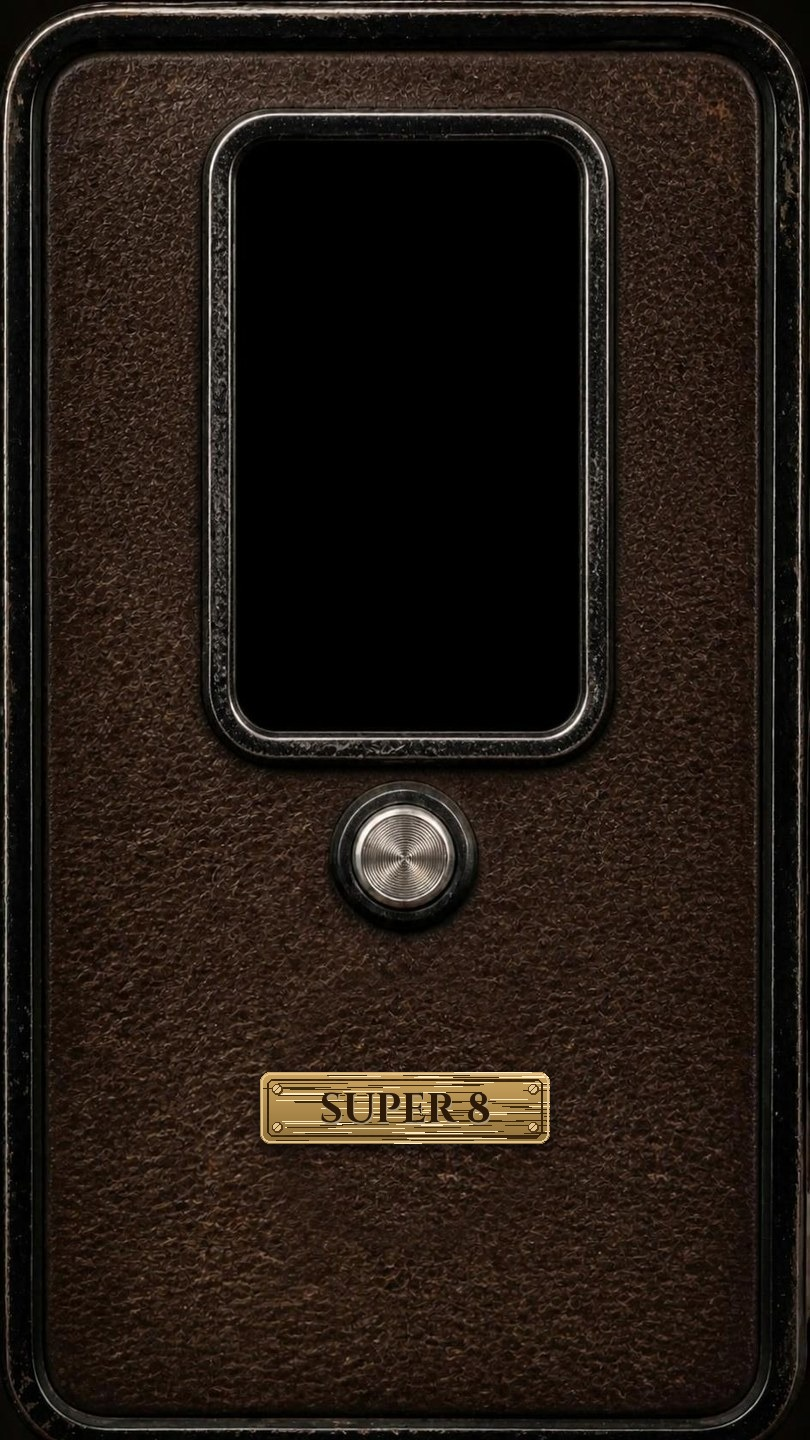
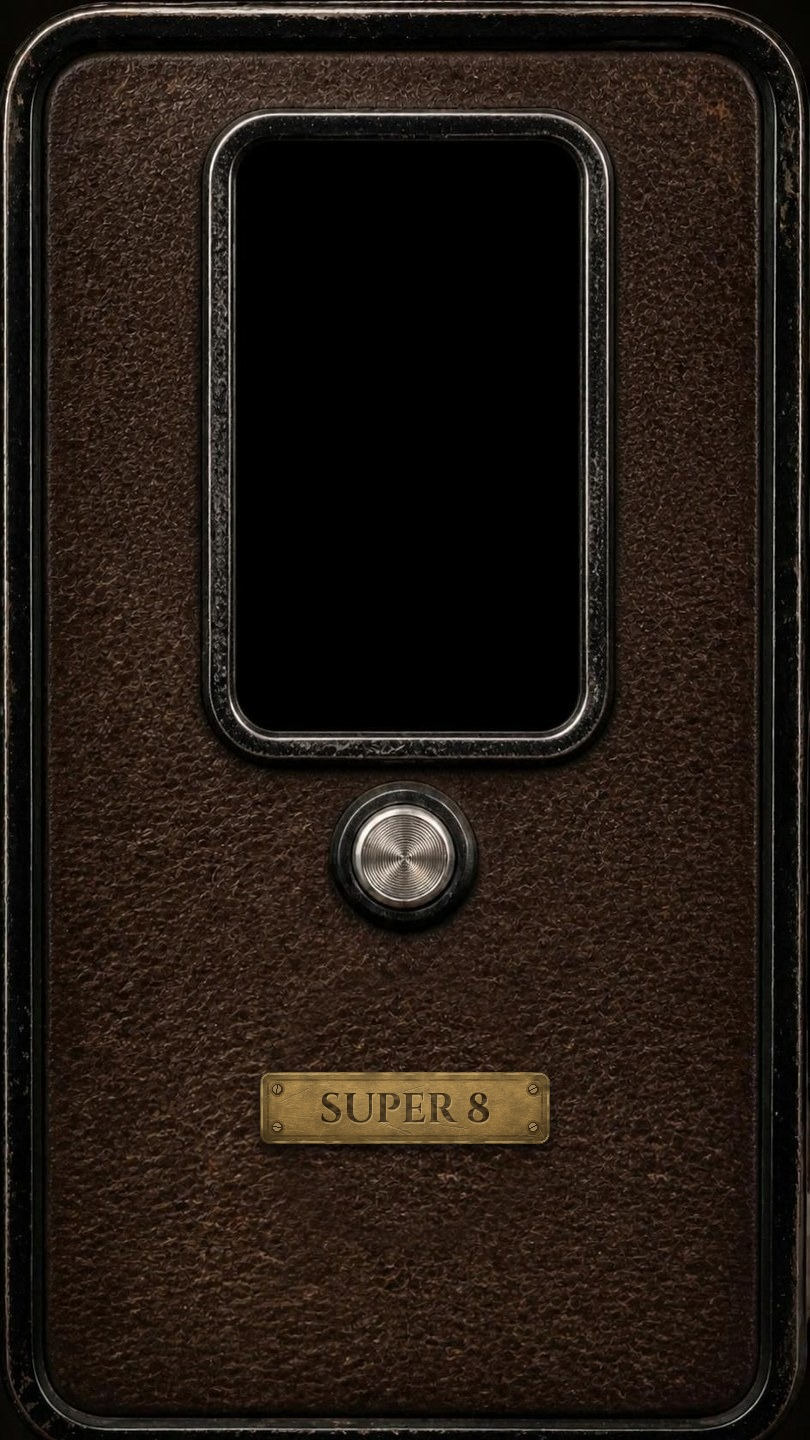
Super 8: plaquinha de latão envelhecida (gasta, arranhada, escurecida nos cantos), nas duas turmas
Claude-Session: https://claude.ai/code/session_01XrBii1UREp8g8yMMuyTCK4

Changed region(s): [[0.3086, 0.7188, 0.679, 0.8125]]

diff --git a/india-turma2/app/sw.js b/india-turma2/app/sw.js
@@ -1,10 +1,10 @@
-// marca: 18094c0fc6
+// marca: fb69645fdf
 // Guarda o app inteiro no celular para abrir mesmo sem sinal (templo, estrada, wi-fi fraco do hotel).
 const CACHE = "caravana-v6", EXTRA = "caravana-ext", MAPA = "caravana-mapa", MARCAS = "caravana-marcas";
 // lista de arquivos gerada pelo tools/gerar-site.py
 const ARQUIVOS = /*ARQUIVOS*/["index.html", "shim.js", "config.js", "manifest.webmanifest", "dados/geo.json", "dados/saberes/dharma.json", "dados/saberes/ganesha.json", "dados/saberes/kali.json", "dados/saberes/krishna.json", "dados/saberes/lakshmi.json", "dados/saberes/sarasvati.json", "dados/travessia.json", "deuses/brahma.webp", "deuses/durga.webp", "deuses/ganesha.webp", "deuses/ganga.webp", "deuses/hanuman.webp", "deuses/kali.webp", "deuses/krishna.webp", "deuses/lakshmi.webp", "deuses/parvati.webp", "deuses/saraswati.webp", "deuses/shiva.webp", "deuses/surya.webp", "deuses/vishnu.webp", "img/abertura-agra.webp", "img/abertura-delhi.webp", "img/abertura-embarque.webp", "img/abertura-jaipur.webp", "img/abertura-rishikesh.webp", "img/abertura-varanasi.webp", "img/bilhete-og.jpg", "img/bilhete-textura.jpg", "img/cameras/botao-latao.webp", "img/cameras/campo-corpo.jpg", "img/cameras/campo.png", "img/cameras/carteira-foto.jpg", "img/cameras/carteira.webp", "img/cameras/celular-estante.png", "img/cameras/celular.png", "img/cameras/couro-caramelo.webp", "img/cameras/couro-corpo.jpg", "img/cameras/couro-delhi.webp", "img/cameras/couro.png", "img/cameras/descartavel-corpo.jpg", "img/cameras/descartavel-estante.png", "img/cameras/descartavel.png", "img/cameras/estante.jpg", "img/cameras/etiqueta1.png", "img/cameras/etiqueta2.png", "img/cameras/etiqueta3.png", "img/cameras/instantanea-corpo.jpg", "img/cameras/instantanea-estante.png", "img/cameras/instantanea.png", "img/cameras/mala-cheia.jpg", "img/cameras/mala-oito.webp", "img/cameras/mala-papel.webp", "img/cameras/mala.jpg", "img/cameras/maleta-foto.jpg", "img/cameras/quatro-corpo.jpg", "img/cameras/quatro-estante.png", "img/cameras/quatro.png", "img/cameras/rajastao-corpo.jpg", "img/cameras/rajastao-estante.png", "img/cameras/rajastao.png", "img/cameras/super8-corpo.jpg", "img/cameras/super8-estante.png", "img/cameras/super8.png", "img/caravana-marrom.png", "img/cristal.jpg", "img/emblema.jpg", "img/fundo.webp", "img/icone-t2-180.png", "img/icone-t2-192.png", "img/icone-t2-512.png", "img/lacre-escuro.webp", "img/lacre.webp", "img/letreiro.png", "img/lockup-claro.png", "img/logo.png", "img/mantra-ganesha.webp", "img/mantra-vasudeva.webp", "img/papiro.webp", "img/passaporte-capa.webp", "img/passaporte.webp", "img/pedra.webp", "img/planetas/budha.webp", "img/planetas/chandra.webp", "img/planetas/guru.webp", "img/planetas/ketu.webp", "img/planetas/mangala.webp", "img/planetas/rahu.webp", "img/planetas/shani.webp", "img/planetas/shukra.webp", "img/planetas/surya.webp", "img/simbolo-claro.png", "img/simbolo-dourado.png", "img/simbolo-marrom.png", "img/simbolo-musgo.png", "img/simbolo.png", "img/tenda.webp", "img/textura.jpg", "insignias/batismo.webp", "insignias/beatles-ashram.webp", "insignias/caverna.webp", "insignias/diwali.webp", "insignias/durga-kund.webp", "insignias/embarque.webp", "insignias/galta-ji.webp", "insignias/ganesha.webp", "insignias/ganga-aarti.webp", "insignias/govind-dev-ji.webp", "insignias/india.webp", "insignias/jaipur.webp", "insignias/kunjapuri.webp", "insignias/manikarnika.webp", "insignias/rishikesh.webp", "insignias/sankat-mochan.webp", "insignias/taj-mahal.webp", "insignias/travessia.webp", "insignias/varanasi.webp"]/*FIM*/;
 // a marca de cada arquivo: numa atualização o celular só baixa de novo o que mudou (economiza o chip no exterior)
-const MARCA = /*MARCAS*/{"shim.js": "f284701254", "config.js": "eda1da432c", "manifest.webmanifest": "980a5ca0f6", "dados/geo.json": "f261282848", "dados/saberes/dharma.json": "78a51cb407", "dados/saberes/ganesha.json": "9f55ad4be4", "dados/saberes/kali.json": "b86d7ac459", "dados/saberes/krishna.json": "aabd863896", "dados/saberes/lakshmi.json": "bc4299d791", "dados/saberes/sarasvati.json": "20ae87e44b", "dados/travessia.json": "d3cf586020", "deuses/brahma.webp": "19992fcb0b", "deuses/durga.webp": "8d31fb940a", "deuses/ganesha.webp": "17bade2b8f", "deuses/ganga.webp": "149e4dd452", "deuses/hanuman.webp": "060814231e", "deuses/kali.webp": "58775391b0", "deuses/krishna.webp": "6ae658d645", "deuses/lakshmi.webp": "8ae7cb1e38", "deuses/parvati.webp": "7deb4969b4", "deuses/saraswati.webp": "231d5dddb2", "deuses/shiva.webp": "fce88360c5", "deuses/surya.webp": "df567b134b", "deuses/vishnu.webp": "67851a3c0b", "img/abertura-agra.webp": "96c5035722", "img/abertura-delhi.webp": "5356c14bf4", "img/abertura-embarque.webp": "9e320b1e29", "img/abertura-jaipur.webp": "965ec260db", "img/abertura-rishikesh.webp": "ce4c1a96f6", "img/abertura-varanasi.webp": "018d81939a", "img/bilhete-og.jpg": "01526b34f3", "img/bilhete-textura.jpg": "27c6916490", "img/cameras/botao-latao.webp": "2666f49629", "img/cameras/campo-corpo.jpg": "63f1e7fa9b", "img/cameras/campo.png": "c18a7e8454", "img/cameras/carteira-foto.jpg": "a7fedf6036", "img/cameras/carteira.webp": "3b77bfd17e", "img/cameras/celular-estante.png": "da6451baf7", "img/cameras/celular.png": "b10bb112cb", "img/cameras/couro-caramelo.webp": "57fa500869", "img/cameras/couro-corpo.jpg": "bf49b75fa3", "img/cameras/couro-delhi.webp": "4a78ba9b77", "img/cameras/couro.png": "e4ff450f79", "img/cameras/descartavel-corpo.jpg": "ac07cb28f5", "img/cameras/descartavel-estante.png": "f1d69c668a", "img/cameras/descartavel.png": "876e87ab30", "img/cameras/estante.jpg": "0cb7b649a8", "img/cameras/etiqueta1.png": "4aeea10cc0", "img/cameras/etiqueta2.png": "67dc1501a5", "img/cameras/etiqueta3.png": "0ad50425a9", "img/cameras/instantanea-corpo.jpg": "856089fe2a", "img/cameras/instantanea-estante.png": "f9885341c1", "img/cameras/instantanea.png": "beb836f2bc", "img/cameras/mala-cheia.jpg": "3c2218ae98", "img/cameras/mala-oito.webp": "aef48e85db", "img/cameras/mala-papel.webp": "29fc8486ca", "img/cameras/mala.jpg": "f79a46d2d3", "img/cameras/maleta-foto.jpg": "a8fd724b58", "img/cameras/quatro-corpo.jpg": "6c6747f615", "img/cameras/quatro-estante.png": "b2082a40e1", "img/cameras/quatro.png": "bbe4f0f2a4", "img/cameras/rajastao-corpo.jpg": "2b36624ac6", "img/cameras/rajastao-estante.png": "76fe9802df", "img/cameras/rajastao.png": "b480e2d873", "img/cameras/super8-corpo.jpg": "f4cf0f1418", "img/cameras/super8-estante.png": "2a07cbf97a", "img/cameras/super8.png": "e12eb1f958", "img/caravana-marrom.png": "784b71c5db", "img/cristal.jpg": "4adff18968", "img/emblema.jpg": "a211a86451", "img/fundo.webp": "aa9c10bcae", "img/icone-t2-180.png": "7e372ea916", "img/icone-t2-192.png": "fec7aba660", "img/icone-t2-512.png": "afd91eea51", "img/lacre-escuro.webp": "d459f488fc", "img/lacre.webp": "635ae8e394", "img/letreiro.png": "6defdd3553", "img/lockup-claro.png": "8d663db03a", "img/logo.png": "7a72b39c60", "img/mantra-ganesha.webp": "a7daafb44d", "img/mantra-vasudeva.webp": "6827763e6f", "img/papiro.webp": "7e11ae5ce6", "img/passaporte-capa.webp": "3c3ed6db3a", "img/passaporte.webp": "c5a0d63fd3", "img/pedra.webp": "3440e853b6", "img/planetas/budha.webp": "4c0a1ac24f", "img/planetas/chandra.webp": "56de1fa225", "img/planetas/guru.webp": "579c3697e6", "img/planetas/ketu.webp": "a96da73a0a", "img/planetas/mangala.webp": "fd4333e899", "img/planetas/rahu.webp": "2d54c13192", "img/planetas/shani.webp": "b270872959", "img/planetas/shukra.webp": "22c1b384af", "img/planetas/surya.webp": "af1ab537fa", "img/simbolo-claro.png": "8fa2d5ebf1", "img/simbolo-dourado.png": "fefceb26fb", "img/simbolo-marrom.png": "54f22364f2", "img/simbolo-musgo.png": "263fb11257", "img/simbolo.png": "cf73e5581e", "img/tenda.webp": "306f2ba051", "img/textura.jpg": "2dd579ec54", "insignias/batismo.webp": "5372da595f", "insignias/beatles-ashram.webp": "753270b7d0", "insignias/caverna.webp": "804c730450", "insignias/diwali.webp": "56d57efb26", "insignias/durga-kund.webp": "54db1886b6", "insignias/embarque.webp": "8f3b0b6dfb", "insignias/galta-ji.webp": "8aed7ab707", "insignias/ganesha.webp": "b866c0bba1", "insignias/ganga-aarti.webp": "0f3405a8b0", "insignias/govind-dev-ji.webp": "2e6c1891c5", "insignias/india.webp": "0507deebf0", "insignias/jaipur.webp": "b5a70853d8", "insignias/kunjapuri.webp": "a887052d5c", "insignias/manikarnika.webp": "e7a872925e", "insignias/rishikesh.webp": "98d094103a", "insignias/sankat-mochan.webp": "38c74ad7d0", "insignias/taj-mahal.webp": "2d4bb63d47", "insignias/travessia.webp": "44e46c3480", "insignias/varanasi.webp": "fcd5b20cfc"}/*FIMM*/;
+const MARCA = /*MARCAS*/{"shim.js": "f284701254", "config.js": "eda1da432c", "manifest.webmanifest": "980a5ca0f6", "dados/geo.json": "f261282848", "dados/saberes/dharma.json": "78a51cb407", "dados/saberes/ganesha.json": "9f55ad4be4", "dados/saberes/kali.json": "b86d7ac459", "dados/saberes/krishna.json": "aabd863896", "dados/saberes/lakshmi.json": "bc4299d791", "dados/saberes/sarasvati.json": "20ae87e44b", "dados/travessia.json": "d3cf586020", "deuses/brahma.webp": "19992fcb0b", "deuses/durga.webp": "8d31fb940a", "deuses/ganesha.webp": "17bade2b8f", "deuses/ganga.webp": "149e4dd452", "deuses/hanuman.webp": "060814231e", "deuses/kali.webp": "58775391b0", "deuses/krishna.webp": "6ae658d645", "deuses/lakshmi.webp": "8ae7cb1e38", "deuses/parvati.webp": "7deb4969b4", "deuses/saraswati.webp": "231d5dddb2", "deuses/shiva.webp": "fce88360c5", "deuses/surya.webp": "df567b134b", "deuses/vishnu.webp": "67851a3c0b", "img/abertura-agra.webp": "96c5035722", "img/abertura-delhi.webp": "5356c14bf4", "img/abertura-embarque.webp": "9e320b1e29", "img/abertura-jaipur.webp": "965ec260db", "img/abertura-rishikesh.webp": "ce4c1a96f6", "img/abertura-varanasi.webp": "018d81939a", "img/bilhete-og.jpg": "01526b34f3", "img/bilhete-textura.jpg": "27c6916490", "img/cameras/botao-latao.webp": "2666f49629", "img/cameras/campo-corpo.jpg": "63f1e7fa9b", "img/cameras/campo.png": "c18a7e8454", "img/cameras/carteira-foto.jpg": "a7fedf6036", "img/cameras/carteira.webp": "3b77bfd17e", "img/cameras/celular-estante.png": "da6451baf7", "img/cameras/celular.png": "b10bb112cb", "img/cameras/couro-caramelo.webp": "57fa500869", "img/cameras/couro-corpo.jpg": "bf49b75fa3", "img/cameras/couro-delhi.webp": "4a78ba9b77", "img/cameras/couro.png": "e4ff450f79", "img/cameras/descartavel-corpo.jpg": "ac07cb28f5", "img/cameras/descartavel-estante.png": "f1d69c668a", "img/cameras/descartavel.png": "876e87ab30", "img/cameras/estante.jpg": "0cb7b649a8", "img/cameras/etiqueta1.png": "4aeea10cc0", "img/cameras/etiqueta2.png": "67dc1501a5", "img/cameras/etiqueta3.png": "0ad50425a9", "img/cameras/instantanea-corpo.jpg": "856089fe2a", "img/cameras/instantanea-estante.png": "f9885341c1", "img/cameras/instantanea.png": "beb836f2bc", "img/cameras/mala-cheia.jpg": "3c2218ae98", "img/cameras/mala-oito.webp": "aef48e85db", "img/cameras/mala-papel.webp": "29fc8486ca", "img/cameras/mala.jpg": "f79a46d2d3", "img/cameras/maleta-foto.jpg": "a8fd724b58", "img/cameras/quatro-corpo.jpg": "6c6747f615", "img/cameras/quatro-estante.png": "b2082a40e1", "img/cameras/quatro.png": "bbe4f0f2a4", "img/cameras/rajastao-corpo.jpg": "2b36624ac6", "img/cameras/rajastao-estante.png": "76fe9802df", "img/cameras/rajastao.png": "b480e2d873", "img/cameras/super8-corpo.jpg": "cabc2f39df", "img/cameras/super8-estante.png": "2a07cbf97a", "img/cameras/super8.png": "e12eb1f958", "img/caravana-marrom.png": "784b71c5db", "img/cristal.jpg": "4adff18968", "img/emblema.jpg": "a211a86451", "img/fundo.webp": "aa9c10bcae", "img/icone-t2-180.png": "7e372ea916", "img/icone-t2-192.png": "fec7aba660", "img/icone-t2-512.png": "afd91eea51", "img/lacre-escuro.webp": "d459f488fc", "img/lacre.webp": "635ae8e394", "img/letreiro.png": "6defdd3553", "img/lockup-claro.png": "8d663db03a", "img/logo.png": "7a72b39c60", "img/mantra-ganesha.webp": "a7daafb44d", "img/mantra-vasudeva.webp": "6827763e6f", "img/papiro.webp": "7e11ae5ce6", "img/passaporte-capa.webp": "3c3ed6db3a", "img/passaporte.webp": "c5a0d63fd3", "img/pedra.webp": "3440e853b6", "img/planetas/budha.webp": "4c0a1ac24f", "img/planetas/chandra.webp": "56de1fa225", "img/planetas/guru.webp": "579c3697e6", "img/planetas/ketu.webp": "a96da73a0a", "img/planetas/mangala.webp": "fd4333e899", "img/planetas/rahu.webp": "2d54c13192", "img/planetas/shani.webp": "b270872959", "img/planetas/shukra.webp": "22c1b384af", "img/planetas/surya.webp": "af1ab537fa", "img/simbolo-claro.png": "8fa2d5ebf1", "img/simbolo-dourado.png": "fefceb26fb", "img/simbolo-marrom.png": "54f22364f2", "img/simbolo-musgo.png": "263fb11257", "img/simbolo.png": "cf73e5581e", "img/tenda.webp": "306f2ba051", "img/textura.jpg": "2dd579ec54", "insignias/batismo.webp": "5372da595f", "insignias/beatles-ashram.webp": "753270b7d0", "insignias/caverna.webp": "804c730450", "insignias/diwali.webp": "56d57efb26", "insignias/durga-kund.webp": "54db1886b6", "insignias/embarque.webp": "8f3b0b6dfb", "insignias/galta-ji.webp": "8aed7ab707", "insignias/ganesha.webp": "b866c0bba1", "insignias/ganga-aarti.webp": "0f3405a8b0", "insignias/govind-dev-ji.webp": "2e6c1891c5", "insignias/india.webp": "0507deebf0", "insignias/jaipur.webp": "b5a70853d8", "insignias/kunjapuri.webp": "a887052d5c", "insignias/manikarnika.webp": "e7a872925e", "insignias/rishikesh.webp": "98d094103a", "insignias/sankat-mochan.webp": "38c74ad7d0", "insignias/taj-mahal.webp": "2d4bb63d47", "insignias/travessia.webp": "44e46c3480", "insignias/varanasi.webp": "fcd5b20cfc"}/*FIMM*/;
 const LISTA = new Set(ARQUIVOS.filter(a => a !== "index.html"));
 async function guardaUm(c, m, a, sempre) {
   const mk = MARCA[a];

diff --git a/app/sw.js b/app/sw.js
@@ -1,10 +1,10 @@
-// marca: 06f61bb1fc
+// marca: 19b8f44a52
 // Guarda o app inteiro no celular para abrir mesmo sem sinal (templo, estrada, wi-fi fraco do hotel).
 const CACHE = "caravana-v6", EXTRA = "caravana-ext", MAPA = "caravana-mapa", MARCAS = "caravana-marcas";
 // lista de arquivos gerada pelo tools/gerar-site.py
 const ARQUIVOS = /*ARQUIVOS*/["index.html", "shim.js", "config.js", "manifest.webmanifest", "dados/geo.json", "dados/saberes/dharma.json", "dados/saberes/ganesha.json", "dados/saberes/kali.json", "dados/saberes/krishna.json", "dados/saberes/lakshmi.json", "dados/saberes/sarasvati.json", "dados/travessia.json", "deuses/brahma.webp", "deuses/durga.webp", "deuses/ganesha.webp", "deuses/ganga.webp", "deuses/hanuman.webp", "deuses/kali.webp", "deuses/krishna.webp", "deuses/lakshmi.webp", "deuses/parvati.webp", "deuses/saraswati.webp", "deuses/shiva.webp", "deuses/surya.webp", "deuses/vishnu.webp", "img/abertura-agra.webp", "img/abertura-delhi.webp", "img/abertura-embarque.webp", "img/abertura-jaipur.webp", "img/abertura-rishikesh.webp", "img/abertura-varanasi.webp", "img/bilhete-og.jpg", "img/bilhete-textura.jpg", "img/cameras/botao-latao.webp", "img/cameras/campo-corpo.jpg", "img/cameras/campo.png", "img/cameras/carteira-foto.jpg", "img/cameras/carteira.webp", "img/cameras/celular-estante.png", "img/cameras/celular.png", "img/cameras/couro-caramelo.webp", "img/cameras/couro-corpo.jpg", "img/cameras/couro-delhi.webp", "img/cameras/couro.png", "img/cameras/descartavel-corpo.jpg", "img/cameras/descartavel-estante.png", "img/cameras/descartavel.png", "img/cameras/estante.jpg", "img/cameras/etiqueta1.png", "img/cameras/etiqueta2.png", "img/cameras/etiqueta3.png", "img/cameras/instantanea-corpo.jpg", "img/cameras/instantanea-estante.png", "img/cameras/instantanea.png", "img/cameras/mala-cheia.jpg", "img/cameras/mala-oito.webp", "img/cameras/mala-papel.webp", "img/cameras/mala.jpg", "img/cameras/maleta-foto.jpg", "img/cameras/quatro-corpo.jpg", "img/cameras/quatro-estante.png", "img/cameras/quatro.png", "img/cameras/rajastao-corpo.jpg", "img/cameras/rajastao-estante.png", "img/cameras/rajastao.png", "img/cameras/super8-corpo.jpg", "img/cameras/super8-estante.png", "img/cameras/super8.png", "img/caravana-marrom.png", "img/cristal.jpg", "img/emblema.jpg", "img/fundo.webp", "img/icone-180.png", "img/icone-192.png", "img/icone-512.png", "img/lacre-escuro.webp", "img/lacre.webp", "img/letreiro.png", "img/lockup-claro.png", "img/logo.png", "img/mantra-ganesha.webp", "img/mantra-vasudeva.webp", "img/papiro.webp", "img/passaporte-capa.webp", "img/passaporte.webp", "img/pedra.webp", "img/planetas/budha.webp", "img/planetas/chandra.webp", "img/planetas/guru.webp", "img/planetas/ketu.webp", "img/planetas/mangala.webp", "img/planetas/rahu.webp", "img/planetas/shani.webp", "img/planetas/shukra.webp", "img/planetas/surya.webp", "img/simbolo-claro.png", "img/simbolo-dourado.png", "img/simbolo-marrom.png", "img/simbolo.png", "img/tenda.webp", "img/textura.jpg", "insignias/batismo.webp", "insignias/beatles-ashram.webp", "insignias/caverna.webp", "insignias/diwali.webp", "insignias/durga-kund.webp", "insignias/embarque.webp", "insignias/galta-ji.webp", "insignias/ganesha.webp", "insignias/ganga-aarti.webp", "insignias/govind-dev-ji.webp", "insignias/india.webp", "insignias/jaipur.webp", "insignias/kunjapuri.webp", "insignias/manikarnika.webp", "insignias/rishikesh.webp", "insignias/sankat-mochan.webp", "insignias/taj-mahal.webp", "insignias/travessia.webp", "insignias/varanasi.webp"]/*FIM*/;
 // a marca de cada arquivo: numa atualização o celular só baixa de novo o que mudou (economiza o chip no exterior)
-const MARCA = /*MARCAS*/{"shim.js": "9ac90dcb64", "config.js": "431d3dc4e4", "manifest.webmanifest": "dcac99ae9c", "dados/geo.json": "f261282848", "dados/saberes/dharma.json": "78a51cb407", "dados/saberes/ganesha.json": "9f55ad4be4", "dados/saberes/kali.json": "b86d7ac459", "dados/saberes/krishna.json": "aabd863896", "dados/saberes/lakshmi.json": "bc4299d791", "dados/saberes/sarasvati.json": "20ae87e44b", "dados/travessia.json": "3d22af33a4", "deuses/brahma.webp": "19992fcb0b", "deuses/durga.webp": "8d31fb940a", "deuses/ganesha.webp": "17bade2b8f", "deuses/ganga.webp": "149e4dd452", "deuses/hanuman.webp": "060814231e", "deuses/kali.webp": "58775391b0", "deuses/krishna.webp": "6ae658d645", "deuses/lakshmi.webp": "8ae7cb1e38", "deuses/parvati.webp": "7deb4969b4", "deuses/saraswati.webp": "231d5dddb2", "deuses/shiva.webp": "fce88360c5", "deuses/surya.webp": "df567b134b", "deuses/vishnu.webp": "67851a3c0b", "img/abertura-agra.webp": "96c5035722", "img/abertura-delhi.webp": "5356c14bf4", "img/abertura-embarque.webp": "9e320b1e29", "img/abertura-jaipur.webp": "965ec260db", "img/abertura-rishikesh.webp": "ce4c1a96f6", "img/abertura-varanasi.webp": "018d81939a", "img/bilhete-og.jpg": "01526b34f3", "img/bilhete-textura.jpg": "27c6916490", "img/cameras/botao-latao.webp": "2666f49629", "img/cameras/campo-corpo.jpg": "63f1e7fa9b", "img/cameras/campo.png": "c18a7e8454", "img/cameras/carteira-foto.jpg": "a7fedf6036", "img/cameras/carteira.webp": "3b77bfd17e", "img/cameras/celular-estante.png": "da6451baf7", "img/cameras/celular.png": "b10bb112cb", "img/cameras/couro-caramelo.webp": "57fa500869", "img/cameras/couro-corpo.jpg": "bf49b75fa3", "img/cameras/couro-delhi.webp": "4a78ba9b77", "img/cameras/couro.png": "e4ff450f79", "img/cameras/descartavel-corpo.jpg": "ac07cb28f5", "img/cameras/descartavel-estante.png": "f1d69c668a", "img/cameras/descartavel.png": "876e87ab30", "img/cameras/estante.jpg": "0cb7b649a8", "img/cameras/etiqueta1.png": "4aeea10cc0", "img/cameras/etiqueta2.png": "67dc1501a5", "img/cameras/etiqueta3.png": "0ad50425a9", "img/cameras/instantanea-corpo.jpg": "856089fe2a", "img/cameras/instantanea-estante.png": "f9885341c1", "img/cameras/instantanea.png": "beb836f2bc", "img/cameras/mala-cheia.jpg": "3c2218ae98", "img/cameras/mala-oito.webp": "aef48e85db", "img/cameras/mala-papel.webp": "29fc8486ca", "img/cameras/mala.jpg": "f79a46d2d3", "img/cameras/maleta-foto.jpg": "a8fd724b58", "img/cameras/quatro-corpo.jpg": "6c6747f615", "img/cameras/quatro-estante.png": "b2082a40e1", "img/cameras/quatro.png": "bbe4f0f2a4", "img/cameras/rajastao-corpo.jpg": "2b36624ac6", "img/cameras/rajastao-estante.png": "76fe9802df", "img/cameras/rajastao.png": "b480e2d873", "img/cameras/super8-corpo.jpg": "f4cf0f1418", "img/cameras/super8-estante.png": "2a07cbf97a", "img/cameras/super8.png": "e12eb1f958", "img/caravana-marrom.png": "784b71c5db", "img/cristal.jpg": "4adff18968", "img/emblema.jpg": "a211a86451", "img/fundo.webp": "aa9c10bcae", "img/icone-180.png": "0df37adf84", "img/icone-192.png": "11a5c845bc", "img/icone-512.png": "7745e9675a", "img/lacre-escuro.webp": "d459f488fc", "img/lacre.webp": "635ae8e394", "img/letreiro.png": "6defdd3553", "img/lockup-claro.png": "8d663db03a", "img/logo.png": "7a72b39c60", "img/mantra-ganesha.webp": "a7daafb44d", "img/mantra-vasudeva.webp": "6827763e6f", "img/papiro.webp": "7e11ae5ce6", "img/passaporte-capa.webp": "3c3ed6db3a", "img/passaporte.webp": "c5a0d63fd3", "img/pedra.webp": "3440e853b6", "img/planetas/budha.webp": "4c0a1ac24f", "img/planetas/chandra.webp": "56de1fa225", "img/planetas/guru.webp": "579c3697e6", "img/planetas/ketu.webp": "a96da73a0a", "img/planetas/mangala.webp": "fd4333e899", "img/planetas/rahu.webp": "2d54c13192", "img/planetas/shani.webp": "b270872959", "img/planetas/shukra.webp": "22c1b384af", "img/planetas/surya.webp": "af1ab537fa", "img/simbolo-claro.png": "8fa2d5ebf1", "img/simbolo-dourado.png": "fefceb26fb", "img/simbolo-marrom.png": "54f22364f2", "img/simbolo.png": "cf73e5581e", "img/tenda.webp": "306f2ba051", "img/textura.jpg": "2dd579ec54", "insignias/batismo.webp": "5372da595f", "insignias/beatles-ashram.webp": "753270b7d0", "insignias/caverna.webp": "804c730450", "insignias/diwali.webp": "56d57efb26", "insignias/durga-kund.webp": "54db1886b6", "insignias/embarque.webp": "8f3b0b6dfb", "insignias/galta-ji.webp": "8aed7ab707", "insignias/ganesha.webp": "b866c0bba1", "insignias/ganga-aarti.webp": "0f3405a8b0", "insignias/govind-dev-ji.webp": "2e6c1891c5", "insignias/india.webp": "0507deebf0", "insignias/jaipur.webp": "b5a70853d8", "insignias/kunjapuri.webp": "a887052d5c", "insignias/manikarnika.webp": "e7a872925e", "insignias/rishikesh.webp": "98d094103a", "insignias/sankat-mochan.webp": "38c74ad7d0", "insignias/taj-mahal.webp": "2d4bb63d47", "insignias/travessia.webp": "44e46c3480", "insignias/varanasi.webp": "fcd5b20cfc"}/*FIMM*/;
+const MARCA = /*MARCAS*/{"shim.js": "9ac90dcb64", "config.js": "431d3dc4e4", "manifest.webmanifest": "dcac99ae9c", "dados/geo.json": "f261282848", "dados/saberes/dharma.json": "78a51cb407", "dados/saberes/ganesha.json": "9f55ad4be4", "dados/saberes/kali.json": "b86d7ac459", "dados/saberes/krishna.json": "aabd863896", "dados/saberes/lakshmi.json": "bc4299d791", "dados/saberes/sarasvati.json": "20ae87e44b", "dados/travessia.json": "3d22af33a4", "deuses/brahma.webp": "19992fcb0b", "deuses/durga.webp": "8d31fb940a", "deuses/ganesha.webp": "17bade2b8f", "deuses/ganga.webp": "149e4dd452", "deuses/hanuman.webp": "060814231e", "deuses/kali.webp": "58775391b0", "deuses/krishna.webp": "6ae658d645", "deuses/lakshmi.webp": "8ae7cb1e38", "deuses/parvati.webp": "7deb4969b4", "deuses/saraswati.webp": "231d5dddb2", "deuses/shiva.webp": "fce88360c5", "deuses/surya.webp": "df567b134b", "deuses/vishnu.webp": "67851a3c0b", "img/abertura-agra.webp": "96c5035722", "img/abertura-delhi.webp": "5356c14bf4", "img/abertura-embarque.webp": "9e320b1e29", "img/abertura-jaipur.webp": "965ec260db", "img/abertura-rishikesh.webp": "ce4c1a96f6", "img/abertura-varanasi.webp": "018d81939a", "img/bilhete-og.jpg": "01526b34f3", "img/bilhete-textura.jpg": "27c6916490", "img/cameras/botao-latao.webp": "2666f49629", "img/cameras/campo-corpo.jpg": "63f1e7fa9b", "img/cameras/campo.png": "c18a7e8454", "img/cameras/carteira-foto.jpg": "a7fedf6036", "img/cameras/carteira.webp": "3b77bfd17e", "img/cameras/celular-estante.png": "da6451baf7", "img/cameras/celular.png": "b10bb112cb", "img/cameras/couro-caramelo.webp": "57fa500869", "img/cameras/couro-corpo.jpg": "bf49b75fa3", "img/cameras/couro-delhi.webp": "4a78ba9b77", "img/cameras/couro.png": "e4ff450f79", "img/cameras/descartavel-corpo.jpg": "ac07cb28f5", "img/cameras/descartavel-estante.png": "f1d69c668a", "img/cameras/descartavel.png": "876e87ab30", "img/cameras/estante.jpg": "0cb7b649a8", "img/cameras/etiqueta1.png": "4aeea10cc0", "img/cameras/etiqueta2.png": "67dc1501a5", "img/cameras/etiqueta3.png": "0ad50425a9", "img/cameras/instantanea-corpo.jpg": "856089fe2a", "img/cameras/instantanea-estante.png": "f9885341c1", "img/cameras/instantanea.png": "beb836f2bc", "img/cameras/mala-cheia.jpg": "3c2218ae98", "img/cameras/mala-oito.webp": "aef48e85db", "img/cameras/mala-papel.webp": "29fc8486ca", "img/cameras/mala.jpg": "f79a46d2d3", "img/cameras/maleta-foto.jpg": "a8fd724b58", "img/cameras/quatro-corpo.jpg": "6c6747f615", "img/cameras/quatro-estante.png": "b2082a40e1", "img/cameras/quatro.png": "bbe4f0f2a4", "img/cameras/rajastao-corpo.jpg": "2b36624ac6", "img/cameras/rajastao-estante.png": "76fe9802df", "img/cameras/rajastao.png": "b480e2d873", "img/cameras/super8-corpo.jpg": "cabc2f39df", "img/cameras/super8-estante.png": "2a07cbf97a", "img/cameras/super8.png": "e12eb1f958", "img/caravana-marrom.png": "784b71c5db", "img/cristal.jpg": "4adff18968", "img/emblema.jpg": "a211a86451", "img/fundo.webp": "aa9c10bcae", "img/icone-180.png": "0df37adf84", "img/icone-192.png": "11a5c845bc", "img/icone-512.png": "7745e9675a", "img/lacre-escuro.webp": "d459f488fc", "img/lacre.webp": "635ae8e394", "img/letreiro.png": "6defdd3553", "img/lockup-claro.png": "8d663db03a", "img/logo.png": "7a72b39c60", "img/mantra-ganesha.webp": "a7daafb44d", "img/mantra-vasudeva.webp": "6827763e6f", "img/papiro.webp": "7e11ae5ce6", "img/passaporte-capa.webp": "3c3ed6db3a", "img/passaporte.webp": "c5a0d63fd3", "img/pedra.webp": "3440e853b6", "img/planetas/budha.webp": "4c0a1ac24f", "img/planetas/chandra.webp": "56de1fa225", "img/planetas/guru.webp": "579c3697e6", "img/planetas/ketu.webp": "a96da73a0a", "img/planetas/mangala.webp": "fd4333e899", "img/planetas/rahu.webp": "2d54c13192", "img/planetas/shani.webp": "b270872959", "img/planetas/shukra.webp": "22c1b384af", "img/planetas/surya.webp": "af1ab537fa", "img/simbolo-claro.png": "8fa2d5ebf1", "img/simbolo-dourado.png": "fefceb26fb", "img/simbolo-marrom.png": "54f22364f2", "img/simbolo.png": "cf73e5581e", "img/tenda.webp": "306f2ba051", "img/textura.jpg": "2dd579ec54", "insignias/batismo.webp": "5372da595f", "insignias/beatles-ashram.webp": "753270b7d0", "insignias/caverna.webp": "804c730450", "insignias/diwali.webp": "56d57efb26", "insignias/durga-kund.webp": "54db1886b6", "insignias/embarque.webp": "8f3b0b6dfb", "insignias/galta-ji.webp": "8aed7ab707", "insignias/ganesha.webp": "b866c0bba1", "insignias/ganga-aarti.webp": "0f3405a8b0", "insignias/govind-dev-ji.webp": "2e6c1891c5", "insignias/india.webp": "0507deebf0", "insignias/jaipur.webp": "b5a70853d8", "insignias/kunjapuri.webp": "a887052d5c", "insignias/manikarnika.webp": "e7a872925e", "insignias/rishikesh.webp": "98d094103a", "insignias/sankat-mochan.webp": "38c74ad7d0", "insignias/taj-mahal.webp": "2d4bb63d47", "insignias/travessia.webp": "44e46c3480", "insignias/varanasi.webp": "fcd5b20cfc"}/*FIMM*/;
 const LISTA = new Set(ARQUIVOS.filter(a => a !== "index.html"));
 async function guardaUm(c, m, a, sempre) {
   const mk = MARCA[a];

diff --git a/app/index.html b/app/index.html
@@ -11,7 +11,7 @@
 <link rel="apple-touch-icon" sizes="180x180" href="/img/icone-180.png">
 <link rel="apple-touch-icon" href="/apple-touch-icon.png">
 <link rel="manifest" href="manifest.webmanifest">
-<script>window.__VERSAO = "23/10 · 10:46";</script>
+<script>window.__VERSAO = "23/10 · 10:49";</script>
 <script src="config.js"></script>
 <script src="shim.js"></script>
 <style>*,*::before,*::after{box-sizing:border-box}html,body{margin:0;height:100%}

diff --git a/india-turma2/app/index.html b/india-turma2/app/index.html
@@ -10,7 +10,7 @@
 <link rel="icon" href="img/icone-t2-192.png">
 <link rel="apple-touch-icon" sizes="180x180" href="/img/icone-t2-180.png">
 <link rel="manifest" href="manifest.webmanifest">
-<script>window.__VERSAO = "23/10 · 10:46";</script>
+<script>window.__VERSAO = "23/10 · 10:49";</script>
 <script src="config.js"></script>
 <script src="shim.js"></script>
 <style>*,*::before,*::after{box-sizing:border-box}html,body{margin:0;height:100%}
